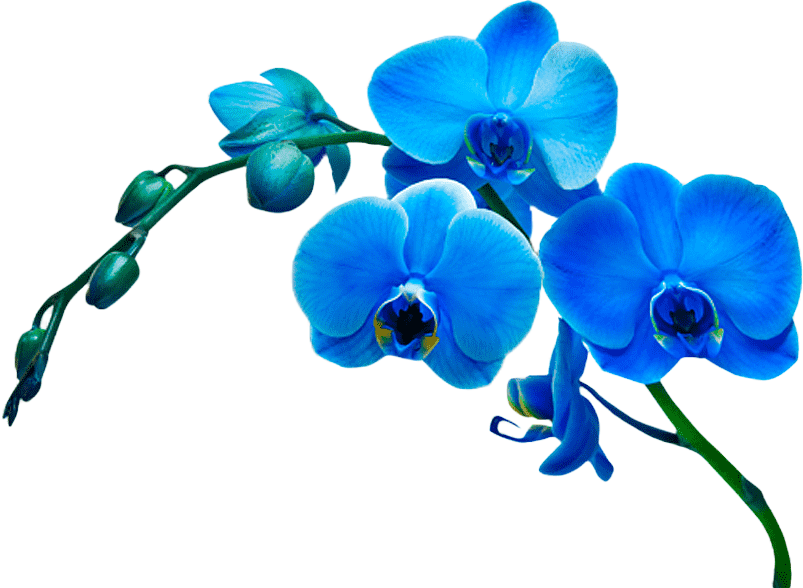
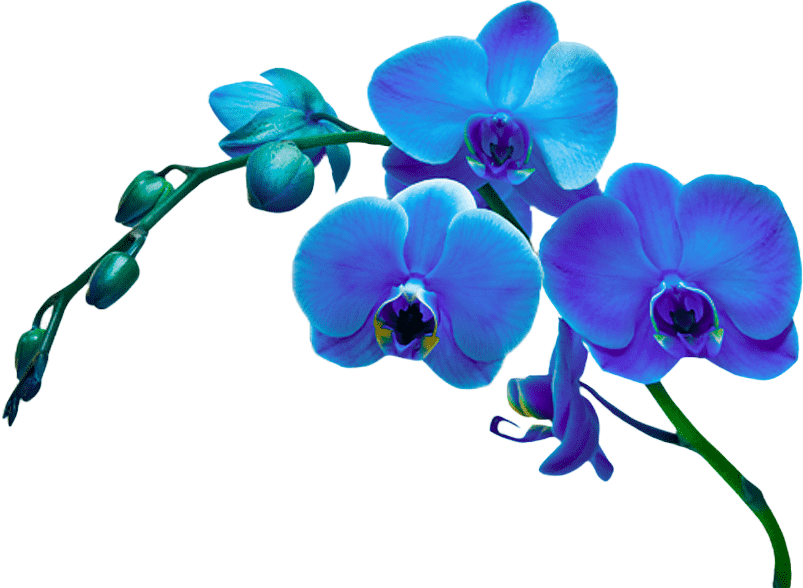
fixed flower colors

diff --git a/src/heroes/Minimal/Minimal.jsx b/src/heroes/Minimal/Minimal.jsx
@@ -6,11 +6,15 @@ import PillButton from "../../components/PillButton.jsx";
 import s from "./Minimal.module.css";
 
 // Where the top bloom sits inside the cutout (fractions of its width / height), measured from the blue pixels.
+// Tracking for "BK WEB", in px at the 100px measuring size. Keep in sync with .name in the CSS.
+const NAME_TRACK = 10;
+
 const HEAD = { x: 0.624, y: 0.224 };
 
 // Lays the giant word out letter by letter (so each can rise on its own) and crops the viewBox to the ink,
-// so the word runs exactly edge to edge. Also returns the centre of the "D", which the flower is pinned to.
-function useWordLayout(word) {
+// so the word runs exactly edge to edge. Also returns the centre of the "D", which the flower is pinned to,
+// and the ink box of the small name ("BK WEB") so it can be drawn at exactly a third of the word's height.
+function useWordLayout(word, name) {
   const [layout, setLayout] = useState(null);
   useEffect(() => {
     let alive = true;
@@ -23,21 +27,29 @@ function useWordLayout(word) {
       const m = ctx.measureText(word);
       const left = m.actualBoundingBoxLeft, width = left + m.actualBoundingBoxRight;
       const d = word.indexOf("D");
+      ctx.letterSpacing = `${NAME_TRACK}px`; // so the outlines don't run into each other
+      const n = ctx.measureText(name);
+      const nh = n.actualBoundingBoxAscent + n.actualBoundingBoxDescent;
+      const nw = n.actualBoundingBoxLeft + n.actualBoundingBoxRight;
       setLayout({
         viewBox: `${-left} ${-m.actualBoundingBoxAscent} ${width} ${m.actualBoundingBoxAscent + m.actualBoundingBoxDescent}`,
         xs,
         anchor: ((xs[d] + xs[d + 1]) / 2 + left) / width,
+        wh: ((m.actualBoundingBoxAscent + m.actualBoundingBoxDescent) / width) * 100, // word height, in cqw
+        nameBox: `${-n.actualBoundingBoxLeft} ${-n.actualBoundingBoxAscent} ${nw} ${nh}`,
+        nameAspect: nw / nh,
       });
     });
     return () => { alive = false; };
-  }, [word]);
+  }, [word, name]);
   return layout;
 }
 
 export default function Minimal({ content, heroes, active, onSelect }) {
   const words = content.name.toUpperCase().split(" ");
   const giant = words.pop();
-  const layout = useWordLayout(giant);
+  const small = words.join(" ");
+  const layout = useWordLayout(giant, small);
 
   const index = heroes.findIndex((h) => h.key === active);
   const built = heroes.filter((h) => h.component);
@@ -53,10 +65,8 @@ export default function Minimal({ content, heroes, active, onSelect }) {
         <span className={s.price}>{content.price}</span>
       </header>
 
-      <div className={s.stage} style={layout && { "--anchor": layout.anchor }}>
-        <p className={`${s.small} ${s.reveal}`} style={{ "--d": "300ms" }}>
-          {words.join(" ")}<span className="sr-only"> {giant}</span>
-        </p>
+      <div className={s.stage} style={layout && { "--anchor": layout.anchor, "--wh": layout.wh, "--na": layout.nameAspect }}>
+        <p className="sr-only">{content.name}</p>
         <div className={s.wordBox}>
           <div className={s.panel} aria-hidden="true" />
           <svg className={s.word} viewBox={layout?.viewBox ?? "0 -72 466 74"} aria-hidden="true">
@@ -64,6 +74,12 @@ export default function Minimal({ content, heroes, active, onSelect }) {
               <text key={i} x={layout.xs[i]} style={{ "--i": i }}>{ch}</text>
             ))}
           </svg>
+          {/* "BK WEB": blue hairline outline, a third of the word's height, straddling the top edge of "STUDIOS", in front of it. */}
+          {layout && (
+            <svg className={`${s.name} ${s.reveal}`} style={{ "--d": "300ms" }} viewBox={layout.nameBox} aria-hidden="true">
+              <text>{small}</text>
+            </svg>
+          )}
           {layout && (
             <div className={s.flower} style={{ "--hx": HEAD.x, "--hy": HEAD.y }} aria-hidden="true">
               <img src={flower} alt="" width="803" height="588" />

diff --git a/src/heroes/Minimal/Minimal.module.css b/src/heroes/Minimal/Minimal.module.css
@@ -45,7 +45,7 @@
   transition: transform 160ms var(--ease-out);
 }
 .mark:active { transform: scale(0.95); }
-.price, .small, .styleName, .nav a {
+.price, .styleName, .nav a {
   font-size: 12px;
   font-weight: 700;
   letter-spacing: 0.24em;
@@ -53,17 +53,11 @@
 }
 
 /* ---------- name lockup + stage ---------- */
-.stage { padding-top: clamp(12px, 3svh, 28px); }
-.small {
-  margin: 0 0 min(1.2cqw, 1.6svh);
-  font-family: var(--font-display);
-  font-weight: 600;
-  font-size: clamp(13px, min(1.8cqw, 2.6svh), 28px);
-  letter-spacing: 0.3em;
-  color: var(--chicory); /* echoes the flower: the name's two colours are the page's two colours */
-}
+.stage { padding-top: clamp(8px, 1.5svh, 16px); }
 .wordBox {
   position: relative;
+  --nh: calc(var(--wh, 15) * 1cqw / 3); /* "BK WEB" height: a third of the word */
+  margin-top: calc(var(--nh) * 0.5 + 4px); /* room for the half of it above the word */
   /* panel box */
   --pl: calc(var(--anchor, 0.54) * 100cqw - 18.8 * var(--u)); /* centred under the chicory */
   --pt: calc(1.6 * var(--u));
@@ -81,6 +75,25 @@
   font-weight: 600;
   font-size: 100px;
 }
+/* "BK WEB": hairline outline in front of the word, straddling its top edge (Summit's outlined "B", in blue). */
+.name {
+  position: absolute;
+  left: 0;
+  top: calc(var(--nh) * -0.5); /* anchored to the word's top edge: half above, half over the letters */
+  height: var(--nh);
+  width: calc(var(--nh) * var(--na));
+  overflow: visible;
+  fill: none;
+  stroke: var(--chicory);
+  stroke-width: 1.25px;
+  vector-effect: non-scaling-stroke;
+  font-family: var(--font-display);
+  font-weight: 600;
+  font-size: 100px;
+  letter-spacing: 10px; /* NAME_TRACK in Minimal.jsx */
+}
+.name text { vector-effect: non-scaling-stroke; }
+
 /* Each letter rises out from under the baseline (the svg clips it). */
 .word text {
   animation: letter 900ms var(--ease-out) calc(100ms + var(--i) * 50ms) both;
@@ -317,11 +330,11 @@
 
 /* ---------- phone: everything stacks; the panel + sprig hang under the word, copy below them ---------- */
 @media (max-width: 720px) {
+  .name { fill: var(--chicory); stroke: none; } /* a hairline is unreadable at this size */
   .hero { --fw: 74cqw; --head: 1.15; } /* lower than desktop: the word is small here, so cover only its bottom */
   .top { height: 64px; }
   .price { font-size: 10px; }
   .stage { padding-top: 24px; }
-  .small { margin-bottom: 8px; }
   .wordBox { --pl: 14cqw; --pt: 3cqw; --pw: 70cqw; --ph: 46cqw; }
   .body {
     grid-template-columns: 1fr;
